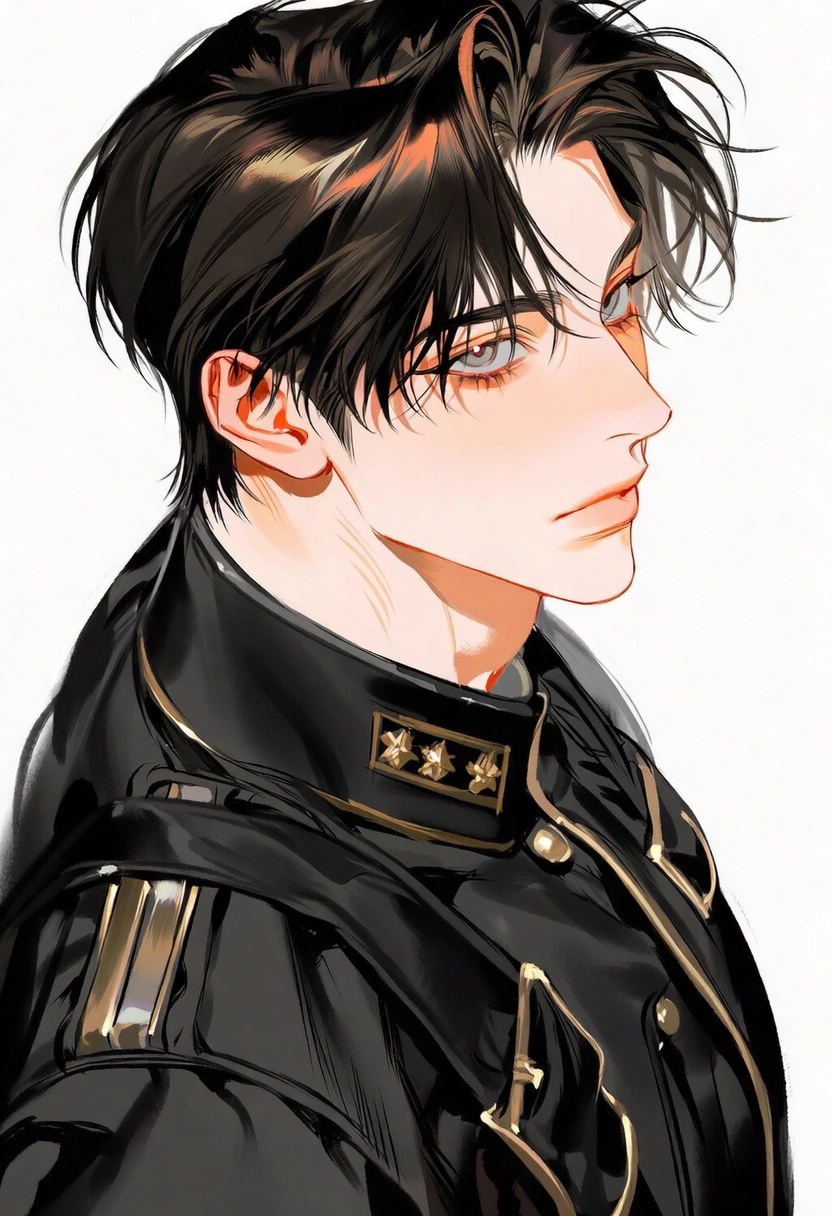
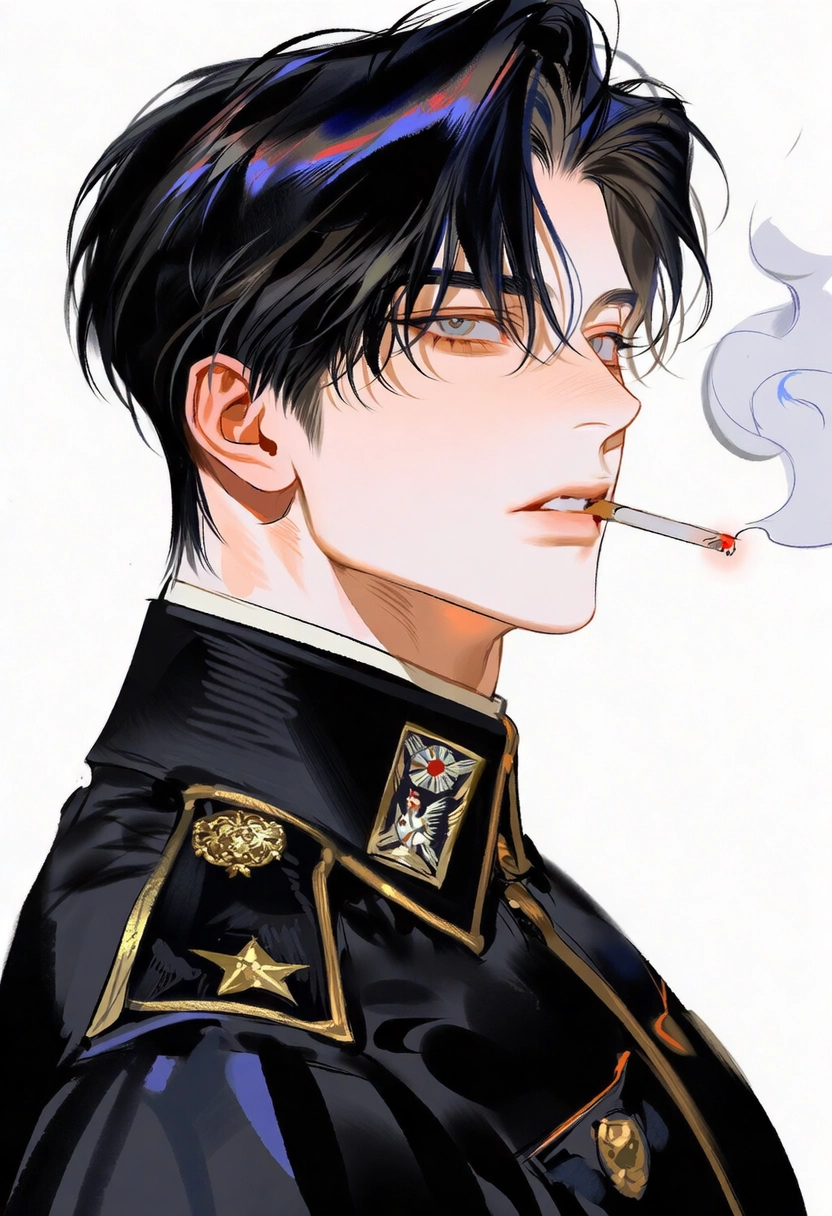
Add files via upload

diff --git a/entries.js b/entries.js
@@ -11,8 +11,12 @@
               blend = true면 종이와 곱하기 합성 (흰 배경 일러에 추천)
               cutout= true면 배경 투명 PNG → 영문 이름 위로 인물이 올라옴
               scale = cutout 인물 크기 배율 (기본 1)
-   file     : 기록 번호. 앞자리는 분류 코드 (AW 발현 · MT 변이 · RT 귀환 · EX 이종
-              · CT 계약 · MF 현현 · UC 미분류 · ALEPH)
+   file     : 기록 번호 = 분류코드-등록연도-일련번호-등급  (예: EX-26-1016-L)
+              분류코드 AW 발현 · MT 변이 · RT 귀환 · EX 이종 · CT 계약 · MF 현현 · UC 미분류 · ALEPH
+              등급     인간 출신 + 인류 편 요원 → 전력 등급 S·A·B·C·D·E·F
+                       균열을 넘어온 개체      → 위험 등급 H·M·L
+              (규칙 설명은 world.js 의 fileCode 에 있고 세계관 섹션에 표시됨)
+   latest   : true 를 붙인 캐릭터가 NEW 스티커 + 첫 화면 카드 (없으면 번호가 가장 큰 캐릭터)
    links.chat : { unsafety: '주소', safety: '주소' } → 대화하기 누르면 둘 중 선택 팝업
                 ('#'이면 "링크 준비 중"으로 비활성). 주소 하나만 문자열로 넣으면 팝업 없이 바로 이동
    ========================================================== */
@@ -77,6 +81,7 @@ window.INDEX_ENTRIES = [
     no: 2,
     file: 'AW-14-0001-S',
     registered: '2026.11.19',
+    latest: true,                // 세 캐릭터 동시 공개 — 최신 기록은 레테로 고정
     kind: 'personnel',
     kindLabel: 'INDEX 특수작전본부 요원',
     type: '발현형',
@@ -118,6 +123,56 @@ window.INDEX_ENTRIES = [
     quote: '기어오르지 마, 자기야. 원래 내 앞에서는 무릎 꿇는 게 예의거든.',
     quoteNote: 'LOW · HUSKY · NEVER SORRY',
     tags: ['S급', '중력 지배', '골초', '시말서 산더미', '비아냥 플러팅', '전투광의 공허'],
+    links: { chat: { unsafety: '#', safety: '#' } }
+  },
+  {
+    id: 'mokseo',
+    no: 3,
+    file: 'EX-26-1016-L',          // 1016 = 금목서 탄생화 날짜(목서 생일). 공개 등록 기준: 이종형 · 위험 L (진짜 정체는 secret)
+    registered: '2026.11.24',
+    kind: 'subject',
+    kindLabel: 'INDEX 관리대상',
+    type: '이종형',
+    genre: '동양풍 · 로맨스',
+    dept: null,
+    ko: '금목서',
+    en: 'MOKSEO',
+    epithet: '해어화 · 말을 이해하는 꽃',
+    hook: '판정 위험도 최하 · 무해한 평화주의자.',
+    accent: '#3f7a55',
+    accent2: '#ef8a2a',
+    chips: [['TYPE', '이종형'], ['THREAT', '최하'], ['ALIAS', '해어화']],
+    art: [
+      { src: 'img/mokseo-1.webp', pos: '50% 22%', blend: true, label: '미소' },
+      { src: 'img/mokseo-2.webp', pos: '50% 22%', blend: true, label: '비단 도포' },
+      { src: 'img/mokseo-3.webp', pos: '50% 22%', blend: true, label: '바람' },
+      { src: 'img/mokseo-4.webp', pos: '55% 28%', blend: true, label: '옆모습' },
+      { src: 'img/mokseo-5.webp', pos: '40% 30%', blend: true, label: '내리깐 눈' },
+      { src: 'img/mokseo-6.webp', pos: '55% 28%', blend: true, label: '기울임' },
+      { src: 'img/mokseo-7.webp', pos: '50% 25%', blend: true, label: '정면' }
+    ],
+    spec: [
+      ['분류', '이종형 · 남성'],
+      ['위험도', '최하 · 무해'],
+      ['신장', '178cm'],
+      ['추정 나이', '약 23세'],
+      ['출신', '동양풍 이차원 제국 · 기방'],
+      ['담당', '테더(유저) · 호칭 「주인님」']
+    ],
+    profile:
+      '비단처럼 흐르는 긴 주황빛 머리, 차분한 초록빛 눈동자, 긴 속눈썹. 이세계 제국 최고급 기방에서 \'해어화\'라 불리던 가장 인기 있는 남기(男妓)로, 다도·언어·시·노래·가무에 특출나다. 이름은 옛 주인이 지어준 것 — 방 안의 주인은 될 수 없는, 마당의 관상용 꽃이라는 뜻이 숨어 있다.',
+    ability: {
+      name: '금목서 향 (등록 능력)',
+      desc: '손끝이 닿은 물로 최상급의 차를 우려내고, 몸에서 나는 금목서 향기로 타인의 정신적 피로와 살의를 잠재운다. 무해한 평화주의적 능력.',
+      list: ['최상급 차 우리기', '향기로 정신적 피로 완화', '향기로 살의 진정']
+    },
+    secret: {
+      title: '현현형 · S급 — 금목서 나무의 화신',
+      text: '감정을 완벽히 통제해 측정기에 잡히지 않는다. 유저가 심각한 위험에 처해 분노하면 본성이 개방되어, 아찔한 금목서 향과 함께 지면을 뚫고 거대한 나무뿌리를 불러 적을 꿰뚫고 포박한다. 목서 본인도 아직 모르는 힘.'
+    },
+    quote: '오늘의 손님들은 조금 거치시군요.',
+    quoteNote: '균열 너머, 총구 앞에서',
+    tags: ['해어화', '주인님', '금목서 향', '다도', '허밍', '나긋한 존댓말'],
     links: { chat: { unsafety: '#', safety: '#' } }
   }
 ];

diff --git a/index.html b/index.html
@@ -237,6 +237,22 @@
   .rec-chip em { font-style: normal; margin-left: auto; font-family: var(--display); }
   .type-note { margin-top: 12px; font-size: 13px; color: var(--ink-3); }
 
+  /* 기록 번호 읽는 법 */
+  .fcode { display: grid; grid-template-columns: minmax(0, 1fr) minmax(0, 1fr); gap: 14px; align-items: stretch; }
+  .fcode-ex { display: flex; align-items: flex-start; justify-content: center; gap: 6px; padding: 26px 20px 22px; background: var(--paper-hi); border: 1.5px solid var(--ink); }
+  .fcode-ex .part { display: flex; flex-direction: column; align-items: center; gap: 8px; }
+  .fcode-ex .part b { font-family: var(--display); font-weight: 400; font-size: clamp(34px, 4.2vw, 56px); line-height: 1; color: var(--ink); padding: 6px 10px 4px; border-bottom: 3px solid var(--house); }
+  .fcode-ex .part span { font-size: 10.5px; color: var(--ink-3); white-space: nowrap; }
+  .fcode-ex .dash { font-family: var(--display); font-size: clamp(28px, 3.4vw, 44px); line-height: 1.15; color: var(--ink-3); }
+  .fcode-grades { display: grid; gap: 14px; }
+  .grade { background: var(--paper-hi); border: 1.5px solid var(--ink); padding: 14px 18px 14px; }
+  .grade h5 { margin: 0; display: flex; align-items: baseline; gap: 8px; font-family: var(--kr); font-weight: 400; font-size: 19px; color: var(--ink); }
+  .grade h5 small { font-family: var(--mono); font-weight: 800; font-size: 10px; letter-spacing: 0.12em; color: var(--house); }
+  .grade ul { display: flex; gap: 4px; margin-top: 8px; }
+  .grade li { width: 30px; height: 30px; display: grid; place-items: center; background: var(--ink); color: var(--paper-hi); font-family: var(--display); font-size: 17px; line-height: 1; }
+  .grade p { margin-top: 8px; font-size: 13.5px; line-height: 1.6; }
+  @media (max-width: 960px) { .fcode { grid-template-columns: 1fr; } }
+
   /* ALEPH — 최고 기밀 분류 */
   .types-bar button.secret {
     margin-left: auto;
@@ -714,6 +730,9 @@
       <p class="type-note">※ 분류는 행정 편의를 위한 것으로, 능력이나 위험도를 직접 나타내지 않는다.</p>
     </div>
 
+    <div class="sub-h rv"><b>FILE NO.</b><span>기록 번호 읽는 법</span><i></i></div>
+    <div class="fcode rv" id="fcode"></div>
+
     <div class="sub-h rv"><b>TETHER</b><span>담당자 제도</span><i></i><small class="mono">SAFETY TETHER</small></div>
     <div class="tether rv">
       <div class="pass" aria-label="INDEX 테더 출입증 예시">
@@ -841,7 +860,7 @@
 <script src="slot.js"></script>
 <script>
 (() => {
-  const { ENTRIES, NEWEST, LOGO, render, sealed, vars, pad, esc, kindEn } = window.IndexSlot;
+  const { ENTRIES, NEWEST, LATEST, LOGO, render, sealed, vars, pad, esc, kindEn } = window.IndexSlot;
   const W = window.INDEX_WORLD;
   const $ = id => document.getElementById(id);
   const HQ = Object.fromEntries(W.hq.map((h, i) => [h.code, { ...h, i }]));
@@ -855,7 +874,7 @@
     + `<span class="word">INDEX<span>-KR</span></span><small class="mono">국제특수개체<br>통합관리국</small>`;
 
   /* ---------- HERO ---------- */
-  const latest = ENTRIES.find(e => e.no === NEWEST);
+  const latest = LATEST;
   if (latest) {
     const hc = $('heroCard');
     hc.href = '#/' + latest.id;
@@ -897,6 +916,15 @@
   }
   typesBar.addEventListener('click', ev => { const b = ev.target.closest('button'); if (b) showType(+b.dataset.i); });
   showType(Math.max(0, W.types.findIndex(t => ENTRIES.some(e => e.type === t.ko))));
+
+  /* ---------- 01 기록 번호 읽는 법 ---------- */
+  const FC = W.fileCode;
+  if (FC) {
+    $('fcode').innerHTML = `
+      <div class="fcode-ex" aria-label="${esc(FC.example)}">${FC.parts.map(([v, l]) => `<div class="part"><b>${esc(v)}</b><span class="mono">${esc(l)}</span></div>`).join('<span class="dash" aria-hidden="true">-</span>')}</div>
+      <div class="fcode-grades">${FC.grades.map(g => `
+        <div class="grade"><h5>${esc(g.name)}<small>${esc(g.en)}</small></h5><ul>${g.scale.map(s => `<li>${esc(s)}</li>`).join('')}</ul><p>${esc(g.text)}</p></div>`).join('')}</div>`;
+  }
 
   /* ---------- 02 기관 ---------- */
   $('seal').innerHTML = (LOGOS.red || LOGO)

diff --git a/slot.js b/slot.js
@@ -7,6 +7,8 @@
   const ENTRIES = (window.INDEX_ENTRIES || []).slice().sort((a, b) => a.no - b.no);
   const LOGO = window.INDEX_LOGO || '';
   const NEWEST = Math.max(0, ...ENTRIES.map(e => e.no));
+  // NEW 스티커·첫 화면 카드에 쓸 최신 기록: latest: true 가 붙은 캐릭터, 없으면 번호가 가장 큰 캐릭터
+  const LATEST = ENTRIES.find(e => e.latest) || ENTRIES.find(e => e.no === NEWEST);
   const pad = n => String(n).padStart(3, '0');
   const esc = s => String(s ?? '').replace(/[&<>"]/g, c => ({ '&': '&amp;', '<': '&lt;', '>': '&gt;', '"': '&quot;' }[c]));
   let uid = 0;
@@ -71,7 +73,7 @@
     const en = e.en.toUpperCase();
     const enSize = Math.min(46, 190 / Math.max(en.length, 1));
     const chips = (e.chips || []).slice(0, 3).map(([k, v]) => `<li><small>${esc(k)}</small><span>${esc(v)}</span></li>`).join('');
-    const isNew = opts.isNew ?? (opts.link && e.no === NEWEST);
+    const isNew = opts.isNew ?? (opts.link && e === LATEST);
     return `<${tag} class="slot${opts.cls ? ' ' + opts.cls : ''}" data-kind="${esc(e.kind)}" data-id="${esc(e.id)}"${href} style="${vars(e)}--tab-x:${tabX(e.no)}cqw;--en:${enSize}cqw" aria-label="No.${pad(e.no)} ${esc(e.ko)}">
       <div class="slot-inner">
         <div class="slot-tab"><small>No.</small>${pad(e.no)}</div>
@@ -118,5 +120,5 @@
     </div>`;
   }
 
-  window.IndexSlot = { ENTRIES, NEWEST, LOGO, render, sealed, vars, pad, esc, kindEn, inkOn };
+  window.IndexSlot = { ENTRIES, NEWEST, LATEST, LOGO, render, sealed, vars, pad, esc, kindEn, inkOn };
 })();

diff --git a/world.js b/world.js
@@ -18,6 +18,21 @@ window.INDEX_WORLD = {
     { no: 'A', code: 'ALEPH', ko: '알레프', en: 'ALEPH', secret: true, text: 'INDEX 내부의 최상위 특수기록 프로토콜에 부여된 별도의 분류명칭. INDEX의 최고 기밀로, 일반 직원은 접근할 수 없다.' }
   ],
 
+  /* 기록 번호 읽는 법 — 세계관 섹션 분류표 아래에 표시 */
+  fileCode: {
+    example: 'EX-26-1016-L',
+    parts: [
+      ['EX', '분류 코드'],
+      ['26', '등록 연도'],
+      ['1016', '일련번호'],
+      ['L', '등급']
+    ],
+    grades: [
+      { name: '전력 등급', en: 'POWER', scale: ['S', 'A', 'B', 'C', 'D', 'E', 'F'], text: '원래 인간이며 인류 편에서 싸우는 요원·협력자. 행정용 등급.' },
+      { name: '위험 등급', en: 'RISK', scale: ['H', 'M', 'L'], text: '균열을 넘어와 인류의 편도, 적도 될 수 있는 개체.' }
+    ]
+  },
+
   missions: [
     { ko: '조사 · 분류', en: 'INVESTIGATE', text: '신규 개체의 신원, 특성, 능력 및 위험성 파악', hq: ['REC', 'INV'] },
     { ko: '보호 · 지원', en: 'PROTECT', text: '개체의 안전 보장, 주거·의료·사회적응 지원', hq: ['PRT', 'MED'] },
